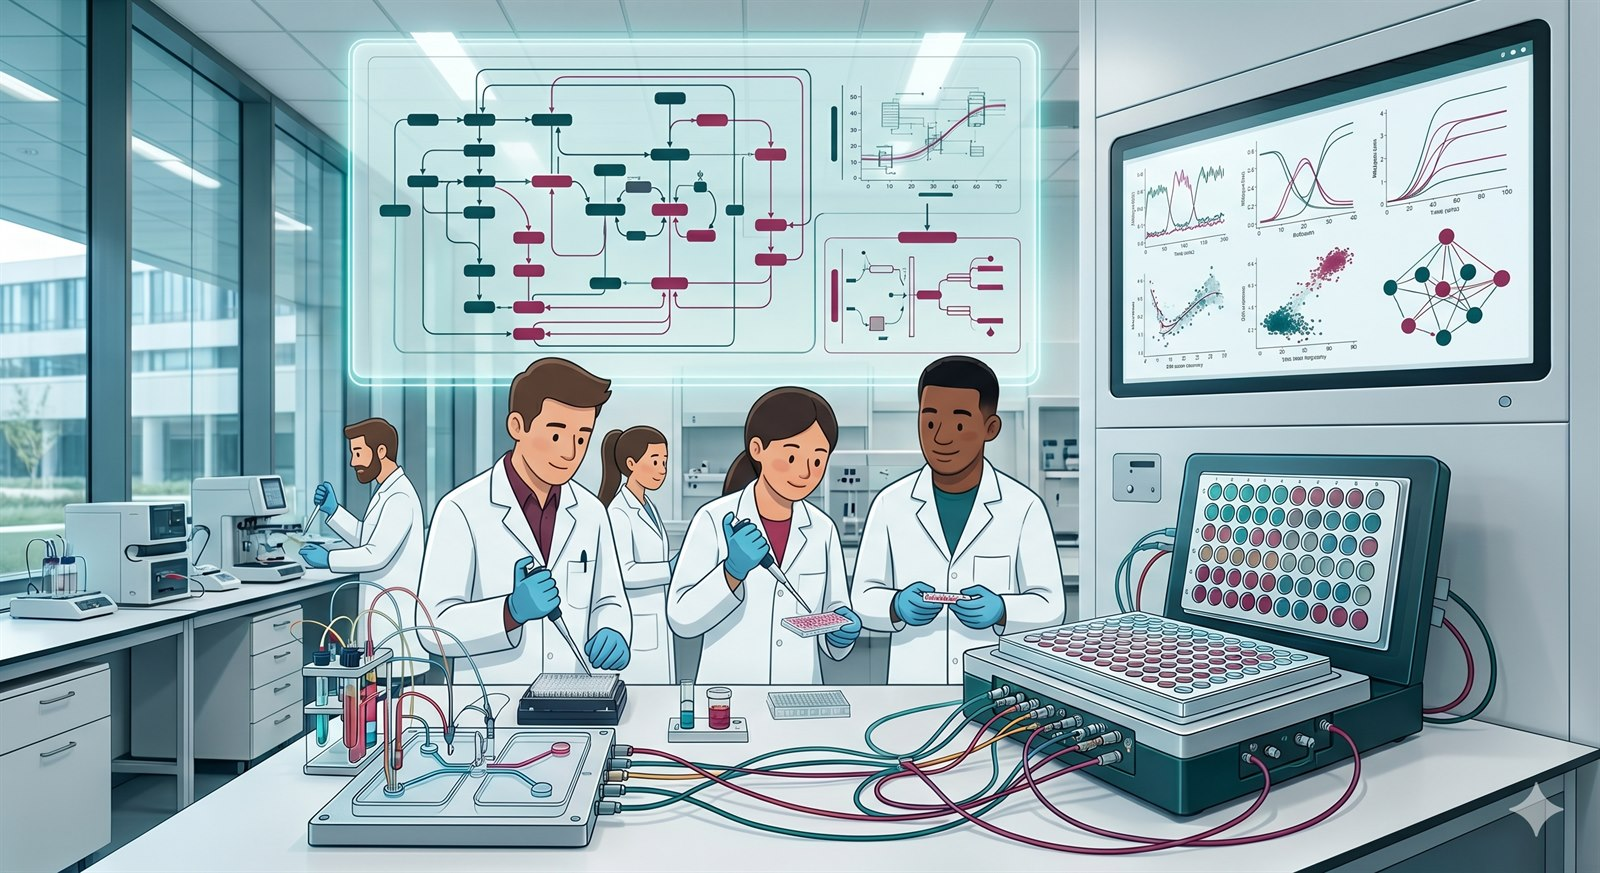
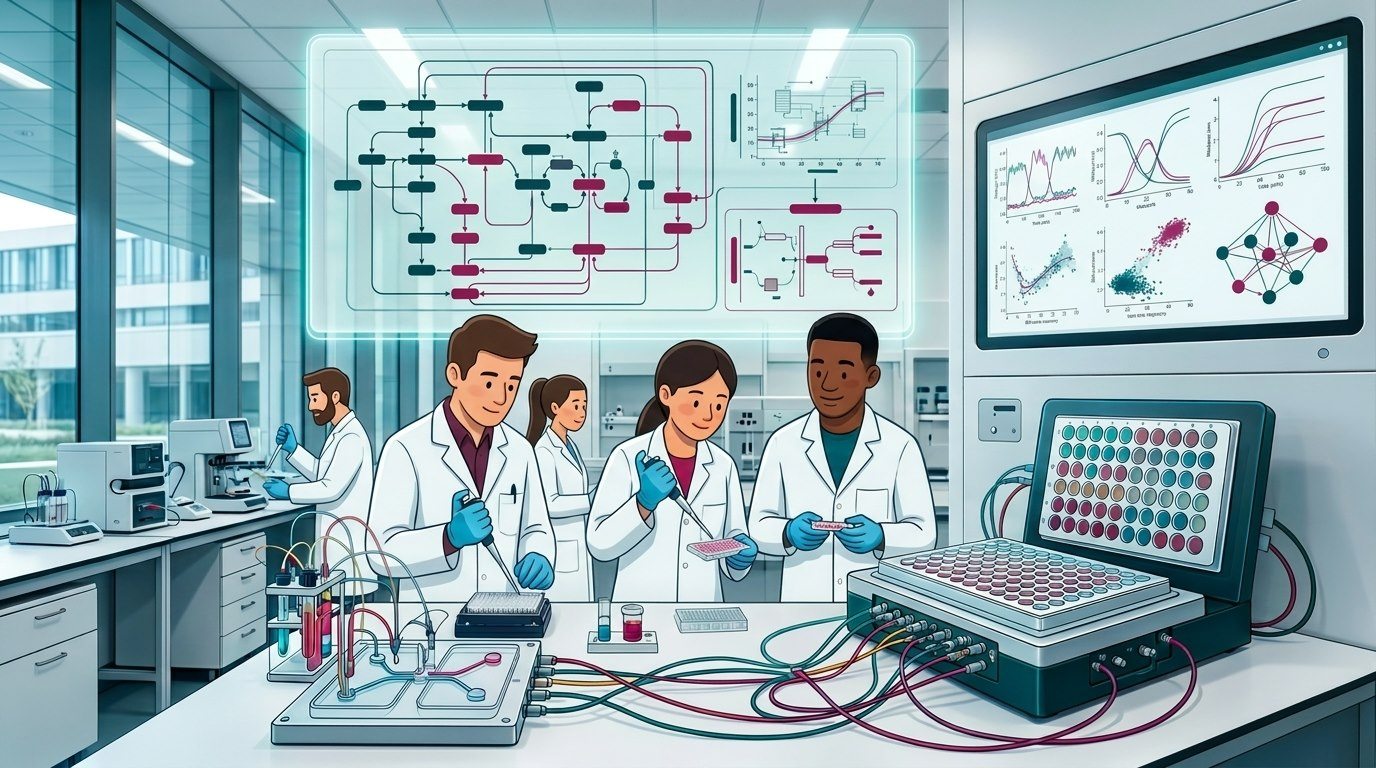
updated picture

diff --git a/index.html b/index.html
@@ -245,7 +245,7 @@
     .hero-visual img {
       width: 100%;
       display: block;
-      aspect-ratio: 1600 / 873;
+      aspect-ratio: 1376 / 768;
       object-fit: cover;
       border-radius: 18px;
     }